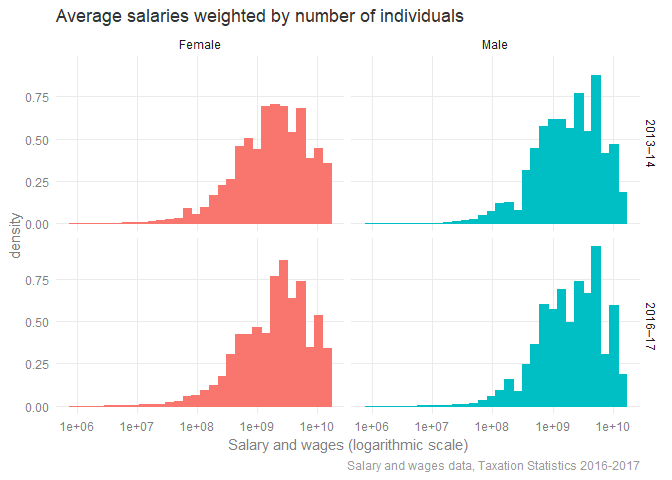
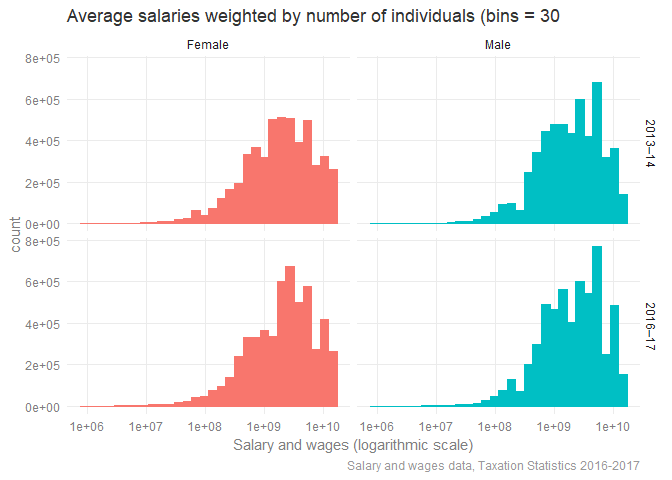
re-knit doc

diff --git a/code/wages_aus.md b/code/wages_aus.md
@@ -14,66 +14,11 @@ output:
 library(readxl)
 library(forcats)
 library(ggrepel)
-```
 
-```
-## Loading required package: ggplot2
-```
-
-```
-## Registered S3 methods overwritten by 'ggplot2':
-##   method         from 
-##   [.quosures     rlang
-##   c.quosures     rlang
-##   print.quosures rlang
-```
-
-```r
 library(here)
-```
-
-```
-## here() starts at C:/Users/Philip/Documents/GitHub/theambitiouseconomist
-```
-
-```r
 library(ggbeeswarm)
 library(janitor)
-```
-
-```
-## 
-## Attaching package: 'janitor'
-```
-
-```
-## The following objects are masked from 'package:stats':
-## 
-##     chisq.test, fisher.test
-```
-
-```r
 library(dplyr)
-```
-
-```
-## 
-## Attaching package: 'dplyr'
-```
-
-```
-## The following objects are masked from 'package:stats':
-## 
-##     filter, lag
-```
-
-```
-## The following objects are masked from 'package:base':
-## 
-##     intersect, setdiff, setequal, union
-```
-
-```r
 library(stringr)
 library(tidyr)
 library(ggplot2)
@@ -209,6 +154,40 @@ ggsave(here("output", "average_salaries_gender_category.svg"))
 ```
 
 
+```r
+experiment_bins <- function(bins = NULL) {tbl14b_by_occupation %>% 
+  filter(year %in% c("2013–14", "2016–17")) %>% 
+  ggplot(aes(x = total_salary, 
+             fill = sex, 
+             color = sex,
+             weights = n_individuals)) + 
+    geom_histogram(bins = bins) + 
+    scale_x_log10() + 
+    guides(fill = FALSE, color = FALSE) + 
+    theme_minimal_modified() + 
+    facet_grid(rows = vars(year), cols = vars(sex)) + 
+    labs(title = glue::glue("Average salaries weighted by number of individuals (bins = {bins}"), 
+         x = "Salary and wages (logarithmic scale)", 
+         caption = "Salary and wages data, Taxation Statistics 2016-2017")
+}
+experiment_bins(bins = 30)
+```
+
+![](wages_aus_files/figure-html/unnamed-chunk-4-1.png)<!-- -->
+
+```r
+experiment_bins(bins = 20)
+```
+
+![](wages_aus_files/figure-html/unnamed-chunk-4-2.png)<!-- -->
+
+```r
+experiment_bins(bins = 15)
+```
+
+![](wages_aus_files/figure-html/unnamed-chunk-4-3.png)<!-- -->
+
+
 
 ```r
 tbl14b_by_occupation %>% 
@@ -218,7 +197,7 @@ tbl14b_by_occupation %>%
              color = sex,
              weights = n_individuals,
              y = ..density..)) + 
-    geom_histogram() + 
+    geom_histogram(bins = 30) + 
     scale_x_log10() + 
     guides(fill = FALSE, color = FALSE) + 
     theme_minimal_modified() + 
@@ -228,11 +207,7 @@ tbl14b_by_occupation %>%
          caption = "Salary and wages data, Taxation Statistics 2016-2017")
 ```
 
-```
-## `stat_bin()` using `bins = 30`. Pick better value with `binwidth`.
-```
-
-![](wages_aus_files/figure-html/unnamed-chunk-4-1.png)<!-- -->
+![](wages_aus_files/figure-html/unnamed-chunk-5-1.png)<!-- -->
 
 ```r
 ggsave(here("output", "salaries_distribution.svg"))
@@ -240,7 +215,6 @@ ggsave(here("output", "salaries_distribution.svg"))
 
 ```
 ## Saving 7 x 5 in image
-## `stat_bin()` using `bins = 30`. Pick better value with `binwidth`.
 ```
 
 
@@ -289,7 +263,7 @@ subset_14b %>%
        caption = "Occupations defined by ANZSCO v. 1.2. \nEach data point represents an occupation. \n Salary and wages data, Taxation Statistics 2016-2017") 
 ```
 
-![](wages_aus_files/figure-html/unnamed-chunk-6-1.png)<!-- -->
+![](wages_aus_files/figure-html/unnamed-chunk-7-1.png)<!-- -->
 
 ```r
 ggsave(here("output", "female_over_male.svg"))
@@ -350,7 +324,7 @@ subset_14b %>%
 ## Warning: Removed 7 rows containing non-finite values (stat_density_ridges).
 ```
 
-![](wages_aus_files/figure-html/unnamed-chunk-7-1.png)<!-- -->
+![](wages_aus_files/figure-html/unnamed-chunk-8-1.png)<!-- -->
 
 ```r
 ggsave(here("output", "narrowing_gender_gap.svg"))
